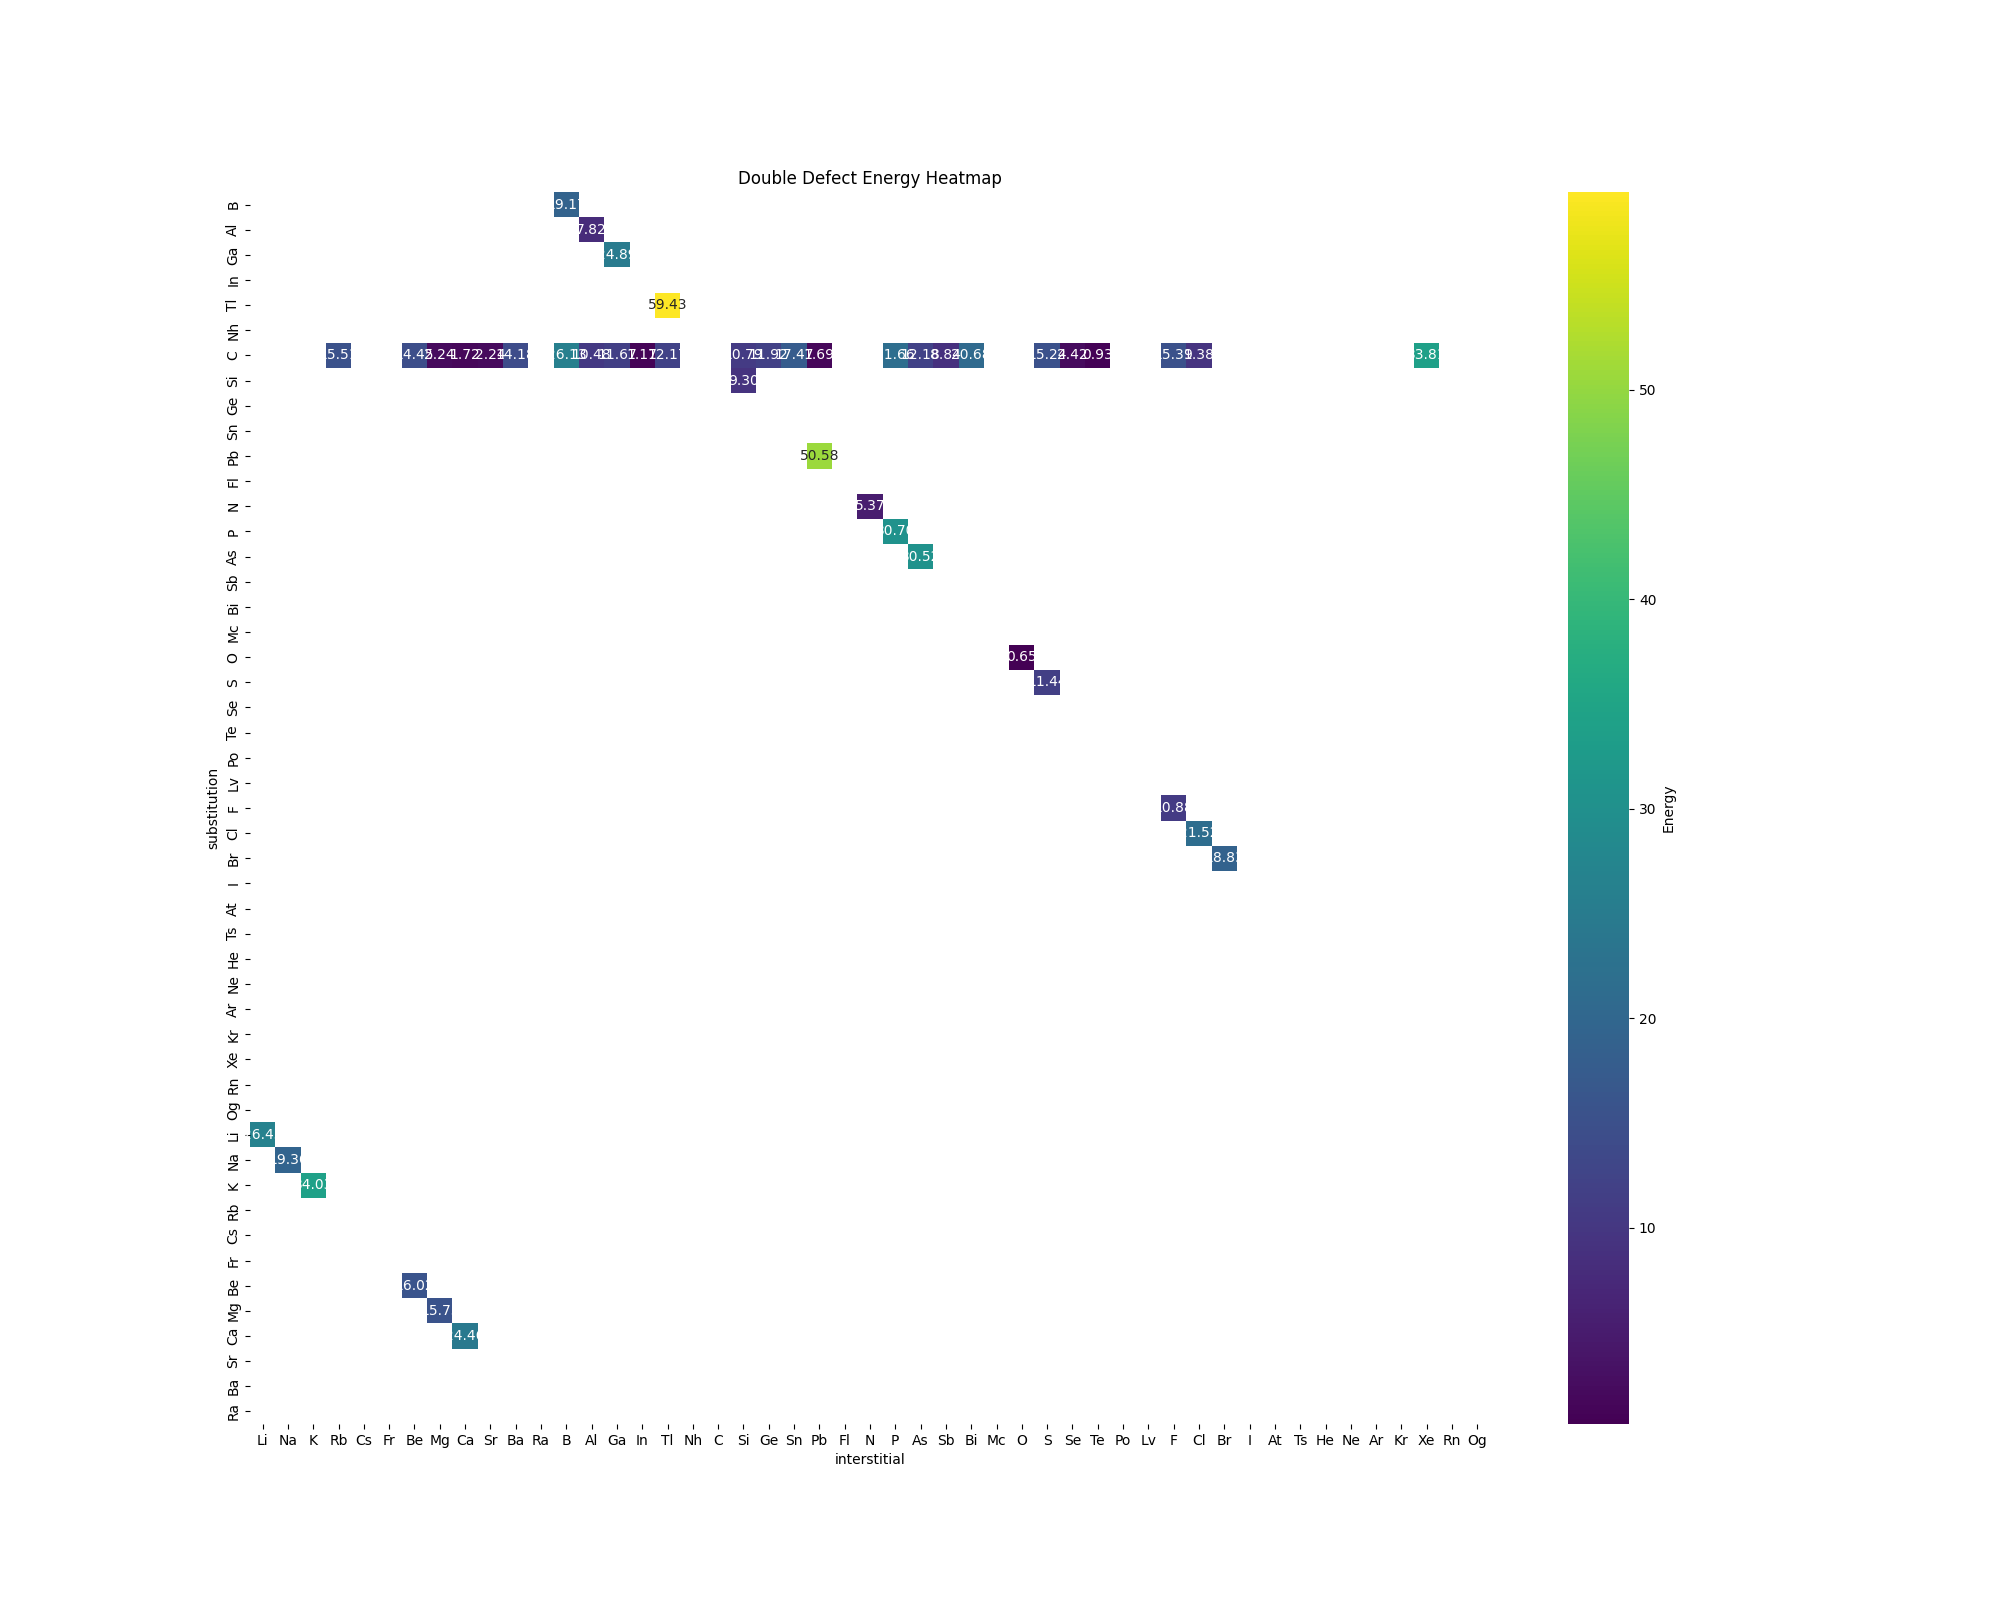
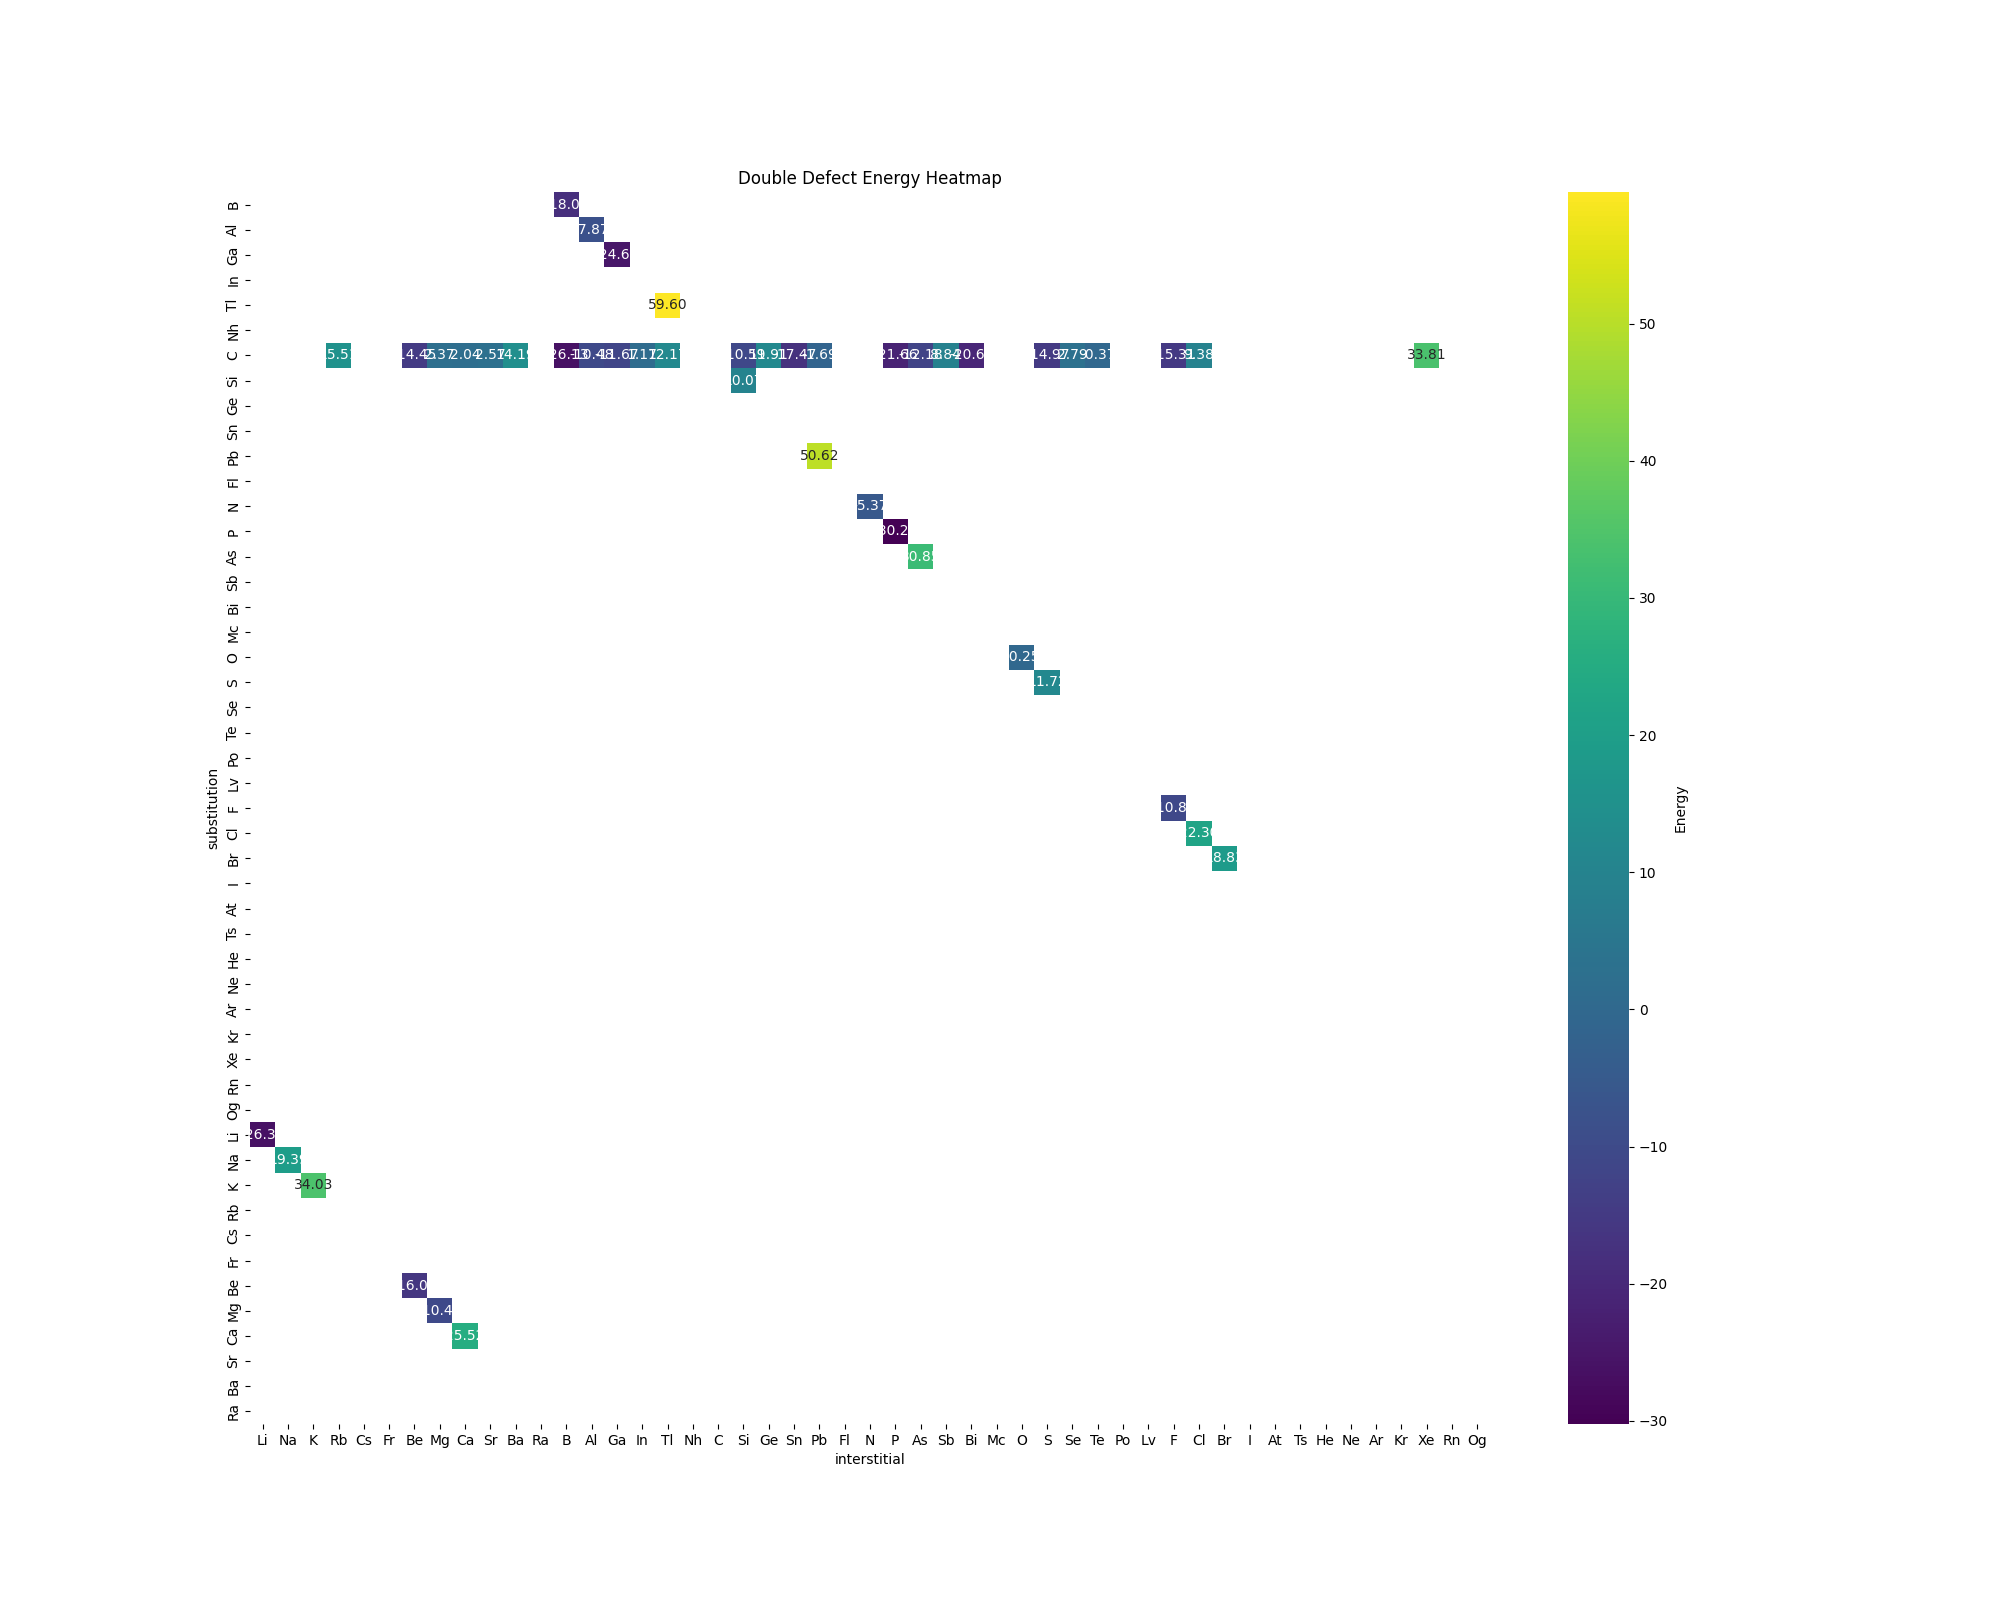
Added plot for double substitution (same elements)

diff --git a/src/mdse/visualizeDB/vis_plots.py b/src/mdse/visualizeDB/vis_plots.py
@@ -193,7 +193,7 @@ def single_defect_plot(plot_name, plot_data, sim_data):
         spins = [candidates["spin"][i] for i in idxs]
         lenght = len(energies)
 
-        sc1 = ax1.scatter([value]*lenght, energies, c = spins, vmin = -0.5, vmax=2.5)
+        sc1 = ax1.scatter([value]*lenght, energies, c = spins, vmin = -1, vmax=2.5)
 
         if avg:
             avg_temp = plot_avg(ax1,value,energies)
@@ -240,7 +240,7 @@ def single_defect_plot(plot_name, plot_data, sim_data):
         spins = [candidates["spin"][i] for i in idxs]
         lenght = len(energies)
 
-        sc2 = ax2.scatter([value]*lenght, energies, c = spins, vmin = -0.5, vmax=2.5)
+        sc2 = ax2.scatter([value]*lenght, energies, c = spins, vmin = -1, vmax=2.5)
 
         if avg:
             avg_temp = plot_avg(ax2,value,energies)
@@ -287,7 +287,7 @@ def single_defect_plot(plot_name, plot_data, sim_data):
         spins = [candidates["spin"][i] for i in idxs]
         lenght = len(energies)
 
-        sc3 = ax3.scatter([value]*lenght, energies, c = spins, vmin = -0.5, vmax=2.5)
+        sc3 = ax3.scatter([value]*lenght, energies, c = spins, vmin = -1, vmax=2.5)
 
         if avg:
             avg_temp = plot_avg(ax3,value,energies)
@@ -334,7 +334,7 @@ def single_defect_plot(plot_name, plot_data, sim_data):
         spins = [candidates["spin"][i] for i in idxs]
         lenght = len(energies)
 
-        sc4 = ax4.scatter([value]*lenght, energies, c = spins, vmin = -0.5, vmax=2.5)
+        sc4 = ax4.scatter([value]*lenght, energies, c = spins, vmin = -1, vmax=2.5)
 
         if avg:
             avg_temp = plot_avg(ax4,value,energies)
@@ -354,6 +354,108 @@ def single_defect_plot(plot_name, plot_data, sim_data):
     plt.gcf().savefig(f"{plot_name}.png")
     plt.close()
     logger.debug(f"Saved doping plot for {plot_name}")
+
+def sub_sub_plot(plot_name, plot_data, sim_data):
+    """The heatmap is not too informative for diagonal (sub-sub).
+    This investigates furhter, by seperating into spins
+
+    """
+    fig, axs = plt.subplots(nrows = 1, figsize = (10,10),
+                            sharex = False, constrained_layout = True)
+    ax1 = axs
+    #fig.tight_layout()
+
+    avg = plot_data.get("average")
+    fix_y = plot_data.get("fix_y")
+    
+
+    ax1.set_xlabel("Element")
+    ax1.set_ylabel("ΔE (eV)")
+    ax1.axhline(y=0, color='gray', linestyle='--', linewidth=1)
+    if fix_y:
+        ax1.set_ylim(-1,11)
+        ax1.set_yticks([0,10])
+
+    data_points = []
+    how_many_points = 0
+    for sim in sim_data:
+        #Pick out sub-sub when SAME element
+        amount = sim.get("DefectInfo")["defect_size"]
+        def_type = sim.get("DefectInfo")["defect_type"]
+        if amount != 2:
+            continue
+
+        types = def_type.split(":")
+        cat1, el1 = get_defect_cat(types[0])
+        cat2, el2 = get_defect_cat(types[1])
+
+        if cat1 == "substitution" and cat2 == "substitution" and el1 == el2:
+            data_points.append({"element" : el1,
+                                "Energy" : sim.get("delta_E"),
+                                "spin" : sim.get("spin")})
+            how_many_points+=1
+            continue
+
+    s_elements = [""] + ["Li","Na","K","Rb","Cs","Fr",
+                "Be","Mg","Ca","Sr","Ba","Ra"]
+
+    p_elements = ["B","Al","Ga","In","Tl","Nh",
+                "C","Si","Ge","Sn","Pb","Fl",
+                "N","P","As","Sb","Bi","Mc",
+                "O","S","Se","Te","Po","Lv",
+                "F","Cl","Br","I","At","Ts",
+                "He","Ne","Ar","Kr","Xe","Rn","Og"] + [""]
+    all_elements = sorted(s_elements+p_elements)
+      #----------------
+    logger.debug("Start generating sub-sub diagonal subplot")
+
+    x_pos = range(0,51)
+    ax1.set_xticks(x_pos,all_elements)
+    ax1.set_title("Double substitution")
+
+    sc1 = None
+    first_label = True
+    avg_x = []
+    avg_y = []
+
+    #Map each element to a x-position
+    elements = {el: idx for idx, el in enumerate(all_elements) if el != ""}
+
+    for key,value in elements.items():
+        #Extract the data with this key(element). Value is position in plot
+        positions = [p for p in data_points if p["element"] == key]
+        if not positions:
+            if avg_x:
+                ax1.plot(avg_x,avg_y, linestyle = "--", color="orange")
+                avg_x = []
+                avg_y = []
+            continue
+
+        energies = [sim["Energy"] for sim in positions]
+        spins = [sim["spin"] for sim in positions]
+        lenght = len(energies)
+
+        sc1 = ax1.scatter([value]*lenght, energies, c = spins, vmin = -1, vmax=2.5)
+
+        if avg:
+            avg_temp = plot_avg(ax1,value,energies)
+            avg_y.append(avg_temp)
+            avg_x.append(value)
+            if first_label:
+                ax1.legend(loc="upper right")
+                first_label = False
+
+    if sc1 is not None:
+        fig.colorbar(sc1,ax=ax1, label = "Spin")
+    if avg and avg_x:
+        ax1.plot(avg_x,avg_y, linestyle = "--", color="orange")
+    logger.debug("Done generating forth subplot")
+
+    logger.debug(f"Sucesfully created all subplots for {plot_name}")
+    plt.gcf().savefig(f"{plot_name}.png")
+    plt.close()
+    logger.debug(f"Saved plot for {plot_name}")
+
 
 
 

diff --git a/src/mdse/visualizeDB/read_dataDB.py b/src/mdse/visualizeDB/read_dataDB.py
@@ -79,30 +79,29 @@ def read_data(config_data):
         for mace_entry in all_mace_entries:
             def_id = mace_entry["defect_key"]
 
-            dft_entry = DFT_data.find_one({"defect_key" : def_id})
+            dft_entries = list(DFT_data.find({"defect_key" : def_id}))
             #Will get multiple entries, because diferent spins.
             #Compare Mace to multiple DFT-spins
 
-        
-            if dft_entry:
+            for dft_entry in dft_entries:
+                mace_copy = mace_entry.copy()
                 # Extract fields we need
-                mace_entry["DFT_defect_formation_energy"] = dft_entry.get("defect_formation_energy")
-                mace_entry["DefectInfo"] = {"defect_type" : dft_entry.get("defect_type")}
-                mace_entry["spin"] = dft_entry.get("spin")
-            else:
-                print("SOMETINH BAD HAPPENED!")
+                mace_copy["DFT_defect_formation_energy"] = dft_entry.get("defect_formation_energy")
+                mace_copy["delta_E"] = mace_copy["DFT_defect_formation_energy"] - mace_copy["formation_energy"]
+                mace_copy["DefectInfo"] = {"defect_type" : dft_entry.get("defect_type")}
+                mace_copy["spin"] = dft_entry.get("spin")
+                final_data.append(mace_copy)
                 
-        for entry in all_mace_entries:
-            #Calculate energy diff, and fix format
-            entry["delta_E"] = abs(entry["DFT_defect_formation_energy"] - entry["formation_energy"])
-
+        for entry in final_data:
+            #Fix some data
             def_type = entry["DefectInfo"]["defect_type"]
 
             entry["DefectInfo"]["defect_size"] = get_def_size(def_type)
             entry["DefectInfo"]["vacancy"] = get_vacancy(def_type)
 
         print(f"Found {len(all_mace_entries)} entries")
-        return all_mace_entries
+        print(f"Found total {len(final_data)} data points (spins incl.)")
+        return final_data
      
 
 

diff --git a/src/mdse/visualizeDB/make_plot.py b/src/mdse/visualizeDB/make_plot.py
@@ -6,7 +6,7 @@
 
 import logging
 from mdse.visualizeDB.vis_plots import (scatter_plot, doping_plot,
-heatmap_plot, single_defect_plot)
+heatmap_plot, single_defect_plot, sub_sub_plot)
 
 logger = logging.getLogger(__name__)
 
@@ -51,7 +51,8 @@ def valid_plot(plot_type):
 
     available_types = {"scatter" : scatter_plot, "doping" : doping_plot,
                        "heatmap" : heatmap_plot,
-                       "single" : single_defect_plot}
+                       "single" : single_defect_plot,
+                       "sub-sub" : sub_sub_plot}
 
     if plot_type not in available_types:
         raise ValueError("The plot is not supported")
